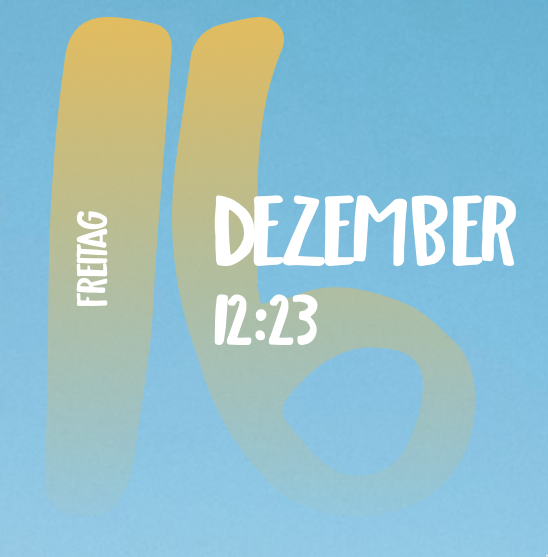
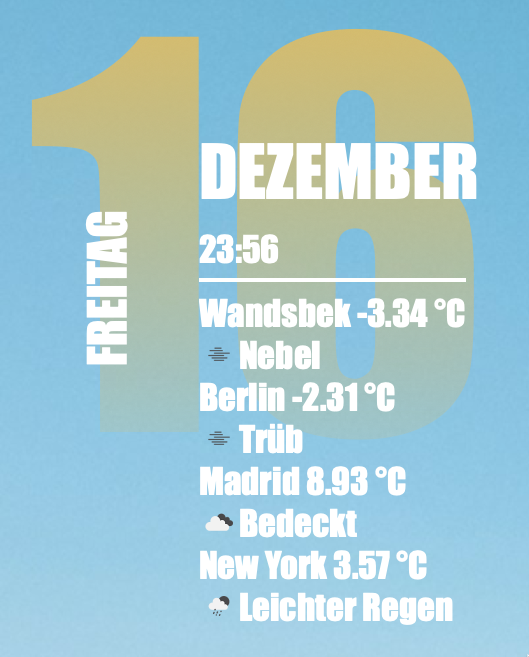
extended version incl. weather infos

diff --git a/cyco/index.jsx b/cyco/index.jsx
@@ -1,21 +1,24 @@
 import { css } from "uebersicht";
 
-const months = [
-  "Januar",
-  "Februar",
-  "März",
-  "April",
-  "Mai",
-  "Juni",
-  "Juli",
-  "August",
-  "September",
-  "Oktober",
-  "November",
-  "Dezember",
-];
+const openWeatherMapApiKey = "";
 
-const weekdays = ["Sonntag", "Montag", "Dienstag", "Mittwoch", "Donnerstag", "Freitag", "Samstag"];
+/**
+ * OpenWeatherMaps accepts three parameters here:
+ *
+ * kelvin
+ * imperial
+ * metric
+ *
+ * Default is: kelvin
+ */
+const units = "metric";
+const language = "de";
+
+const additionLocations = [
+  { code: "10557,DE", name: "Berlin" }, // code => PostalCode,CountryCode
+  { code: "28005,ES", name: "Madrid" },
+  { code: "10016,US", name: "New York" },
+];
 
 export const color1 = "#EBBA55";
 export const color2 = "#FFFFFF";
@@ -23,7 +26,7 @@ export const color2 = "#FFFFFF";
 export const className = `
 	left: 50px;
 	top: 00px;
-	font-family: "Porter";
+	font-family: "Impact";
 	z-index: 1;
   position: relative;
 `;
@@ -41,8 +44,8 @@ const dayInWeekCss = css`
   text-transform: uppercase;
   position: absolute;
   transform: rotate(-90deg);
-  top: 250px;
-  font-size: 30px;
+  top: 330px;
+  font-size: 50px;
 `;
 
 const monthNameCss = css`
@@ -58,35 +61,187 @@ const timeCss = css`
   color: ${color2};
   text-transform: uppercase;
   position: absolute;
-  font-size: 50px;
+  font-size: 35px;
   top: 300px;
   left: 170px;
 `;
 
-// How often command will be executed
-export const refreshFrequency = 1000 * 15;
+const weatherCss = css`
+  border-top: 4px solid ${color2};
+  padding-top: 10px;
+  color: ${color2};
+  position: absolute;
+  font-size: 35px;
+  top: 350px;
+  left: 170px;
+`;
 
-// Trigger UI refresh
-export const command = (dispatch) => {
-  dispatch({ output: new Date() });
+const weatherConditionCss = css`
+  display: flex;
+`;
+
+const weatherIconCss = css`
+  width: 40px;
+  height: 40px;
+`;
+
+export const renderWeather = (weather) => {
+  let unit = units == "imperial" ? "F" : units == "kelvin" ? "K" : units == "metric" ? "C" : "K";
+  return (
+    <div id='weather'>
+      <div>
+        {weather.city} {weather.temp} °{unit}
+      </div>
+      <div className={weatherConditionCss}>
+        <img className={weatherIconCss} src={`http://openweathermap.org/img/wn/${weather.icon}@2x.png`} />
+        {weather.conditions}
+      </div>
+    </div>
+  );
 };
 
-export const render = ({ output }) => {
-  const now = new Date();
-
-  let monthName = months[now.getMonth()];
-  let dayNumber = padZero(now.getDate(), 2);
-  let dayInWeek = weekdays[now.getDay()];
-  let time = padZero(now.getHours(), 2) + ":" + padZero(now.getMinutes(), 2);
-
+export const render = ({ monthName, dayNumber, dayInWeek, time, localWeather, additionalWeatherList }) => {
   return (
     <div>
       <div className={dayNumberCss}>{dayNumber}</div>
       <div className={dayInWeekCss}>{dayInWeek}</div>
       <div className={monthNameCss}>{monthName}</div>
       <div className={timeCss}>{time}</div>
+      <div className={weatherCss}>
+        {renderWeather(localWeather)}
+        {additionalWeatherList !== undefined &&
+          additionalWeatherList.map(function (additionalWeather, i) {
+            return renderWeather(additionalWeather);
+          })}
+      </div>
     </div>
   );
 };
 
+export const refreshFrequency = false;
+
+export const updateState = (data, previousState) => ({
+  ...previousState,
+  ...data,
+});
+
+const execute = (action, interval) => {
+  action();
+
+  setInterval(action, interval);
+};
+
+export const command = async (dispatch) => {
+  // Update Date & Time once a minute
+  execute(() => {
+    const now = new Date();
+
+    let monthName = months[now.getMonth()];
+    let dayNumber = padZero(now.getDate(), 2);
+    let dayInWeek = weekdays[now.getDay()];
+    let time = padZero(now.getHours(), 2) + ":" + padZero(now.getMinutes(), 2);
+
+    dispatch({
+      monthName: monthName,
+      dayNumber: dayNumber,
+      dayInWeek: dayInWeek,
+      time: time,
+    });
+  }, 1000 * 60);
+
+  // Update weather once in an hour
+  execute(() => fetchLocalWeather(dispatch), 1000 * 60 * 60);
+
+  // Update weather once in an hour
+  execute(() => fetchAdditionalWeather(dispatch), 1000 * 60 * 60);
+};
+
 const padZero = (num, places) => String(num).padStart(places, "0");
+
+const fetchLocalWeather = (dispatch) => {
+  geolocation.getCurrentPosition(async (geo) => {
+    const lat = geo.position.coords.latitude;
+    const lon = geo.position.coords.longitude;
+
+    let localWeather = await fetchWeather(lat, lon);
+
+    dispatch({ localWeather: localWeather });
+  });
+};
+
+const fetchAdditionalWeather = async (dispatch) => {
+  let promises = [];
+
+  additionLocations.forEach((location) => {
+    let promise = new Promise(async (resolve, reject) => {
+      let coordinates = await fetchCoordinates(location.code);
+
+      let additionalWeather = await fetchWeather(coordinates.lat, coordinates.lon);
+      additionalWeather.city = location.name;
+
+      resolve(additionalWeather);
+    });
+
+    promises.push(promise);
+  });
+
+  Promise.all(promises).then((values) => {
+    dispatch({ additionalWeatherList: values });
+  });
+};
+
+const fetchCoordinates = (postacodeCountryCode) => {
+  return new Promise(function (resolve) {
+    fetch(
+      `http://127.0.0.1:41417/http://api.openweathermap.org/geo/1.0/zip?zip=${postacodeCountryCode}&appid=${openWeatherMapApiKey}`
+    )
+      .then((res) => res.json())
+      .then((data) => {
+        resolve({
+          lat: data.lat,
+          lon: data.lon,
+        });
+      });
+  });
+};
+
+const fetchWeather = (lat, lon) => {
+  return new Promise(function (resolve) {
+    fetch(
+      `http://127.0.0.1:41417/https://api.openweathermap.org/data/2.5/weather?lat=${lat}&lon=${lon}&units=${units}&appid=${openWeatherMapApiKey}&lang=${language}`
+    )
+      .then((res) => res.json())
+      .then((data) => {
+        let captalizeWord = (text) =>
+          text
+            .toLowerCase()
+            .split(" ")
+            .map((i, j) => i.charAt(0).toUpperCase() + i.slice(1))
+            .join(" ");
+
+        resolve({
+          conditions: captalizeWord(data.weather[0].description),
+          temp: data.main.temp,
+          city: data.name,
+          icon: data.weather[0].icon,
+        });
+      });
+  });
+};
+
+export const months = [
+  "Januar",
+  "Februar",
+  "März",
+  "April",
+  "Mai",
+  "Juni",
+  "Juli",
+  "August",
+  "September",
+  "Oktober",
+  "November",
+  "Dezember",
+];
+
+export const weekdays = ["Sonntag", "Montag", "Dienstag", "Mittwoch", "Donnerstag", "Freitag", "Samstag"];
